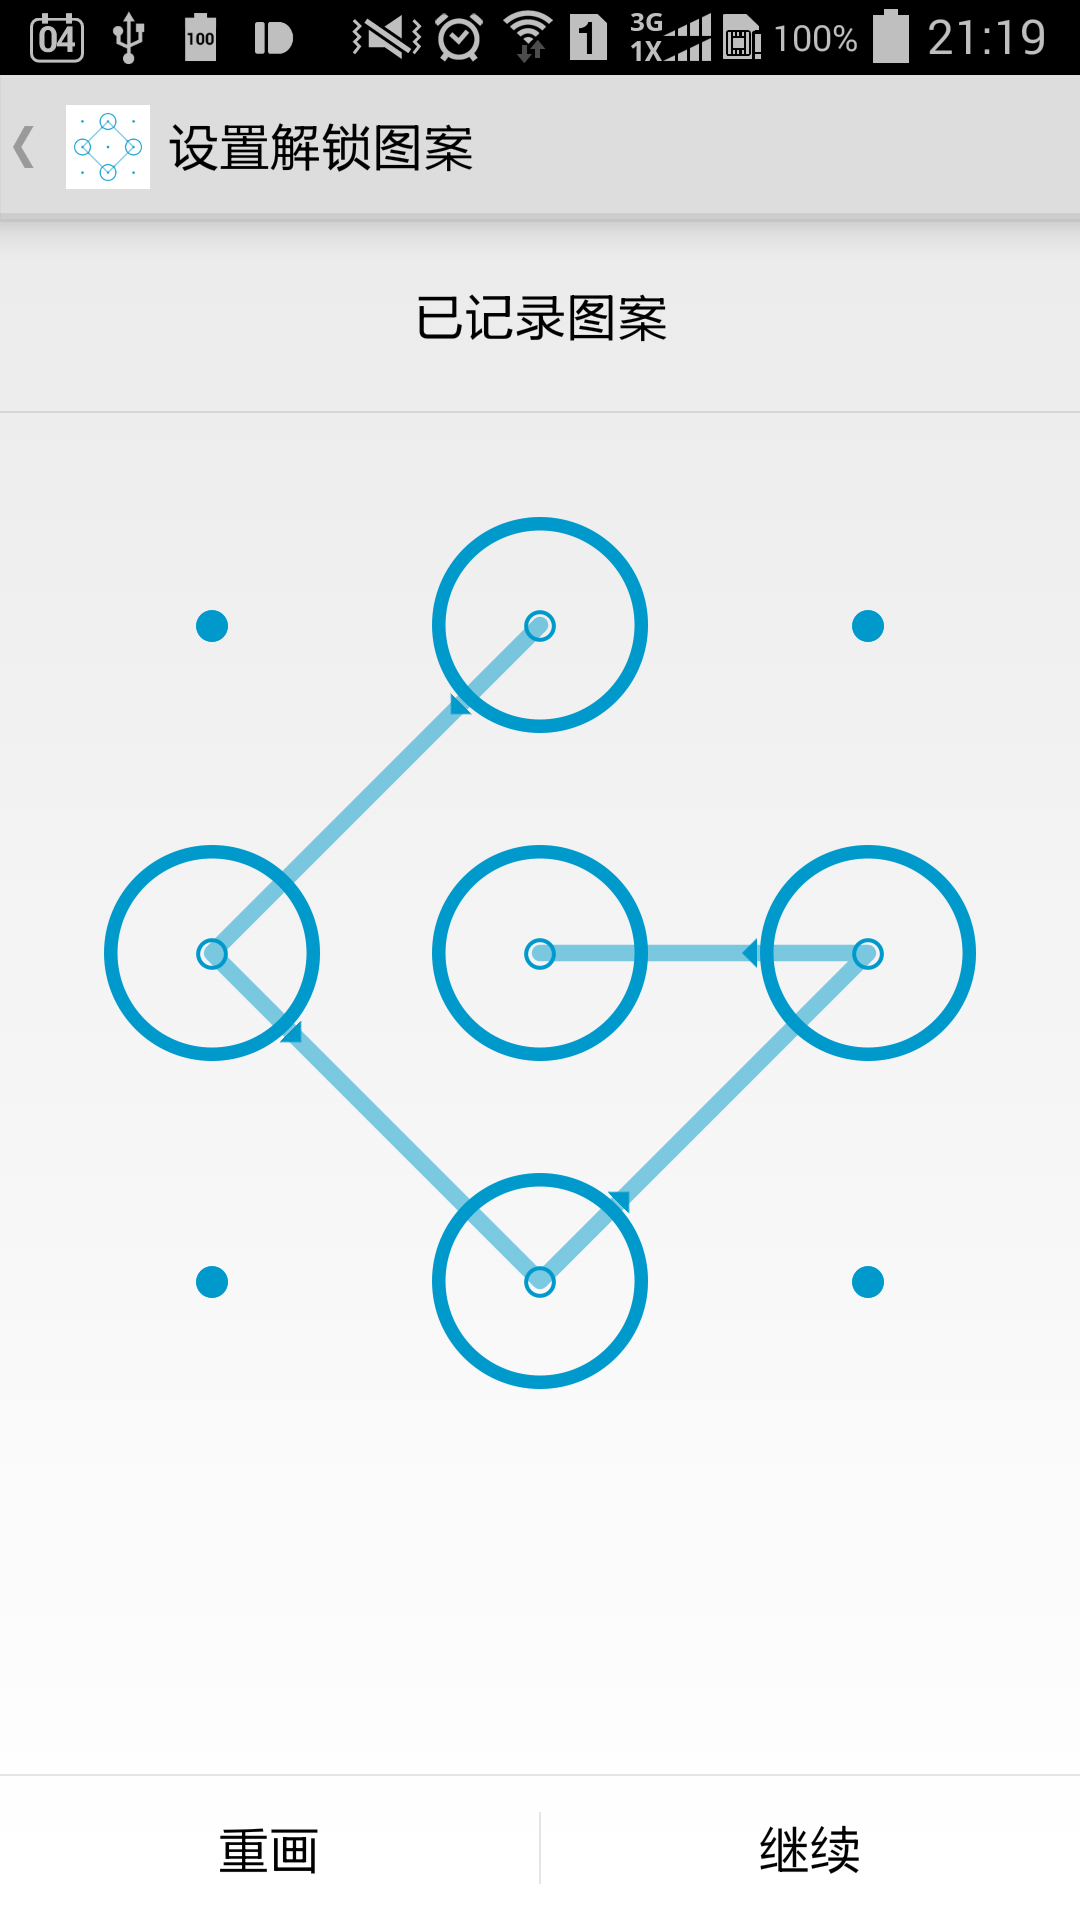
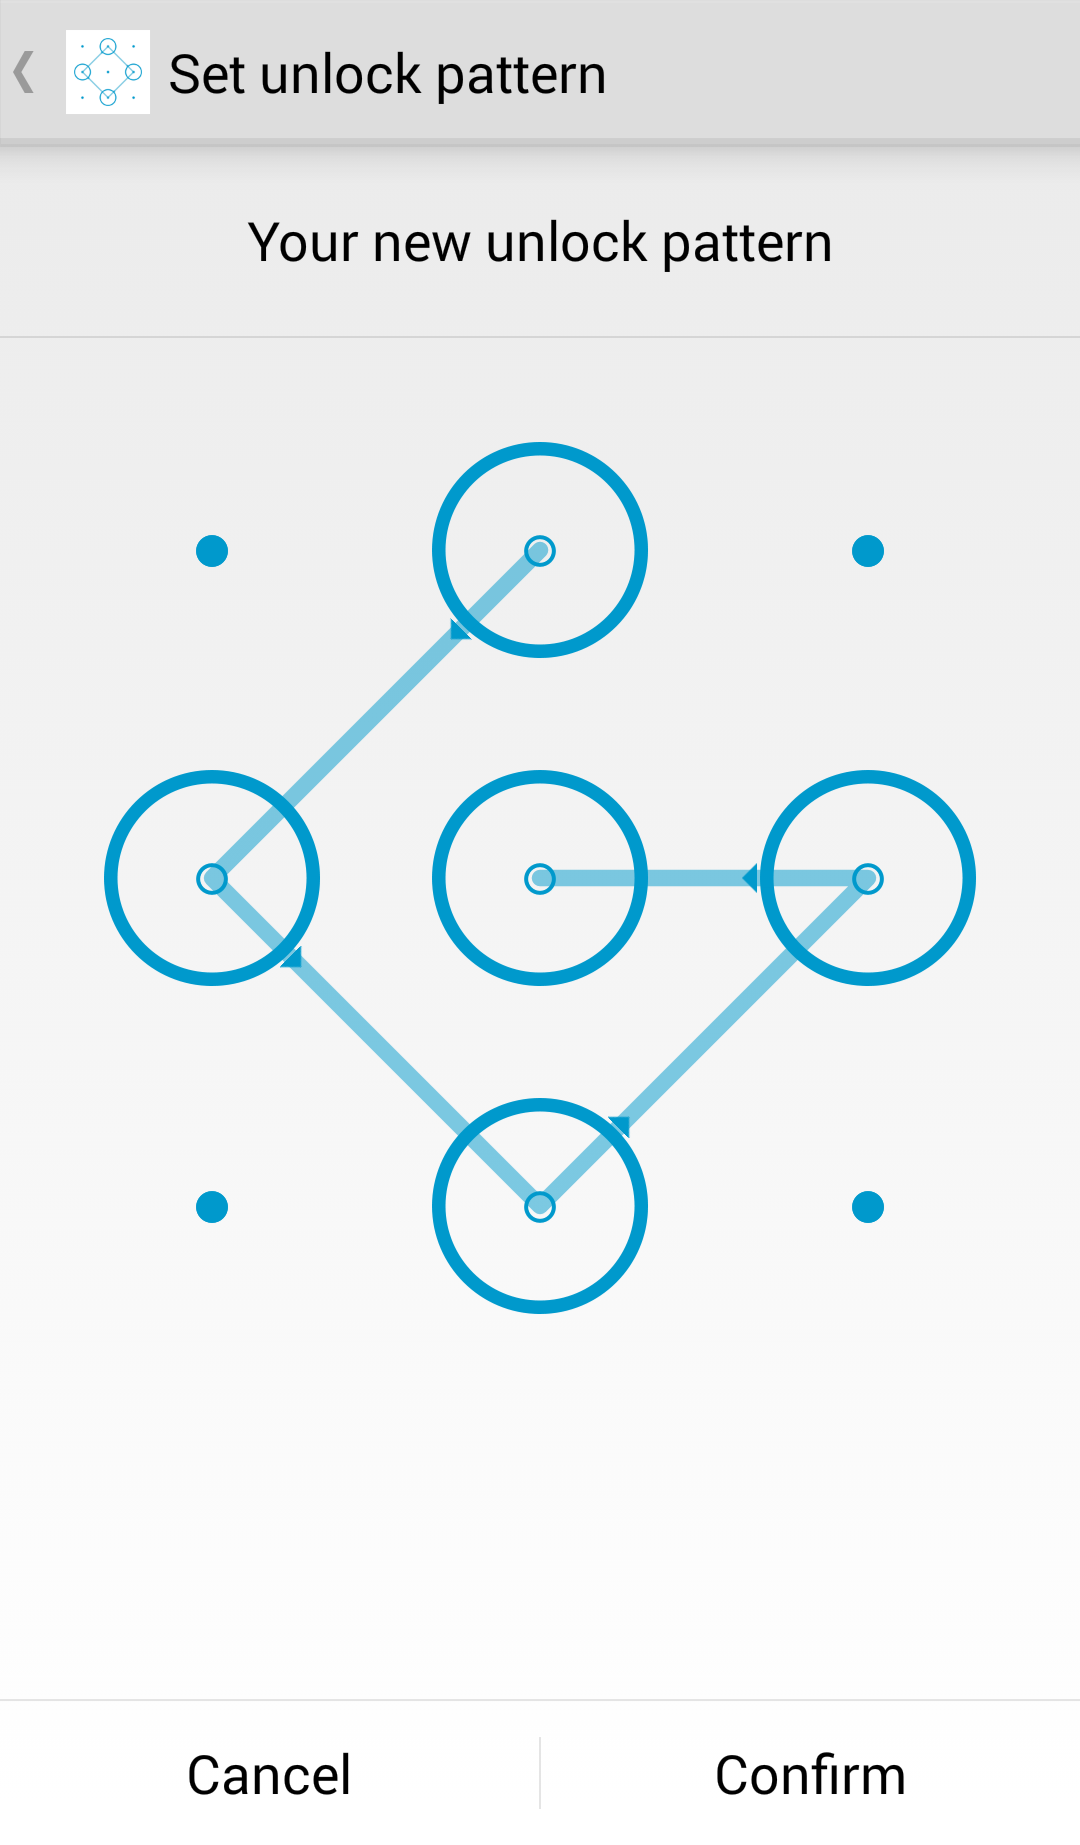
Update sample image.

diff --git a/README.md b/README.md
@@ -2,7 +2,7 @@
 
 An Android library for pattern lock.
 
-![Sample](./image/sample.png)
+![Sample](./image/sample_small.png)
 
 ## PatternLock or LockPattern?
 
